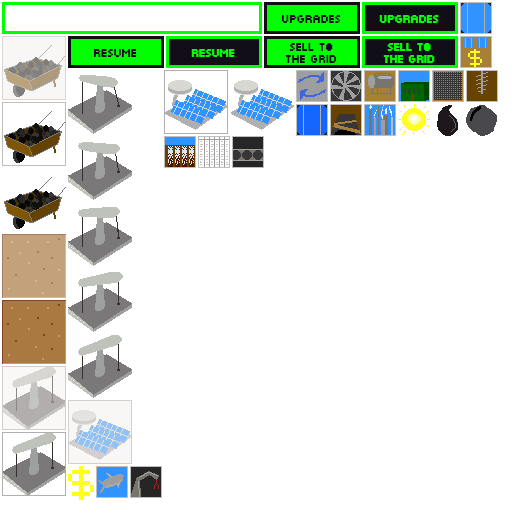
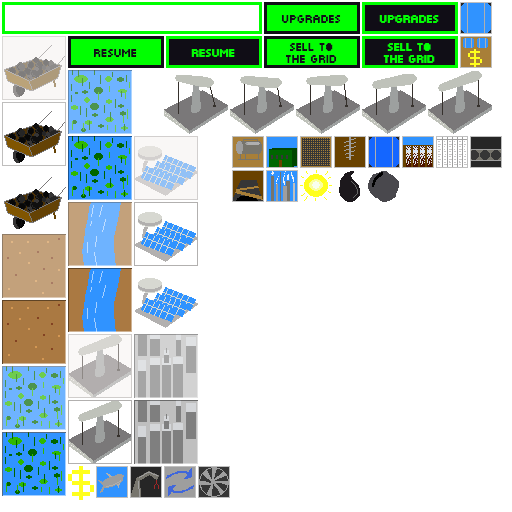
new tile types added sprites for new types. Random gen

Changed region(s): [[0.0, 0.125, 1.0, 1.0]]

diff --git a/src/state/play_state.rs b/src/state/play_state.rs
@@ -7,12 +7,14 @@ use std::ops::DerefMut;
 
 use components::{Button, Color, CurrentPower, EntityLookup, PowerBar, Rect, ResearchedBuffs,
                  ResearchingCount, ResourceCount, ResourceType, Resources, SelectedTile, Sprite,
-                 Text, Tile, Transform, Wallet};
+                 Text, Tile, TileType, Transform, Wallet};
 use components::ui::WalletUI;
 use systems;
 use renderer;
 use entities::{create_text, tech_tree};
 use storage_types::*;
+use rand;
+use rand::Rng;
 
 enum InternalState {
     Game,
@@ -118,12 +120,17 @@ impl<'a> State for PlayState<'a> {
         scene.clear();
 
         let mut tile_nodes: Vec<Node> = Vec::with_capacity(100);
+        let mut rng = rand::thread_rng();
         for row in 0..10 {
             for col in 0..10 {
                 let col = col as f32;
                 let row = row as f32;
                 let size = Tile::get_size();
-                let tile = world
+                let tile_type: TileType = rng.gen();
+                let tile = Tile::new(tile_type);
+                let sprite_frames = Tile::get_sprite_frames(&tile.tile_type);
+                let frame_one = sprite_frames[0].clone();
+                let tile_entity = world
                     .create_entity()
                     .with(Transform::visible(
                         size * col,
@@ -136,16 +143,16 @@ impl<'a> State for PlayState<'a> {
                         1.0,
                     ))
                     .with(Button::new(
-                        "tiles".to_string(),
-                        ["tiles.png".to_string(), "tiles_highlight.png".to_string()],
+                        frame_one.clone(),
+                        sprite_frames,
                     ))
                     .with(Sprite {
-                        frame_name: "tiles.png".to_string(),
+                        frame_name: frame_one,
                     })
-                    .with(Tile {})
+                    .with(tile)
                     .build();
 
-                tile_nodes.push(Node::new(Some(tile), None));
+                tile_nodes.push(Node::new(Some(tile_entity), None));
             }
         }
 

diff --git a/src/components/tile.rs b/src/components/tile.rs
@@ -1,8 +1,33 @@
 use specs::{Component, VecStorage};
 
-pub struct Tile;
+#[derive(Rand)]
+pub enum TileType {
+    Open,
+    EcoSystem,
+    River,
+    City,
+}
+
+pub struct Tile {
+    pub tile_type: TileType,
+}
 
 impl Tile {
+    pub fn new(tile_type: TileType) -> Tile {
+        Tile{
+            tile_type,
+        }
+    }
+
+    pub fn get_sprite_frames(tile_type: &TileType) -> [String; 2] {
+        match *tile_type {
+            TileType::Open => ["tiles.png".to_string(), "tiles_highlight.png".to_string()],
+            TileType::EcoSystem => ["swamp.png".to_string(), "swamp_highlight.png".to_string()],
+            TileType::River => ["river.png".to_string(), "river_highlight.png".to_string()],
+            TileType::City => ["city.png".to_string(), "city_highlight.png".to_string()],
+        }
+    }
+
     pub fn get_size() -> f32 {
         64.0
     }

diff --git a/src/systems/research.rs b/src/systems/research.rs
@@ -47,7 +47,7 @@ impl<'a> System<'a> for Research {
         ) = data;
 
         let mut upgrade_entities_researched = Vec::with_capacity(3);
-        let mut researching_count = researching_count_storage.deref_mut();
+        let researching_count = researching_count_storage.deref_mut();
         let mut researching_entities = HashMap::new();
         for (entity, color, upgrade) in
             (&*entities, &mut color_storage, &mut upgrade_storage).join()

diff --git a/src/main.rs b/src/main.rs
@@ -14,6 +14,9 @@ extern crate serde;
 extern crate serde_derive;
 extern crate serde_json;
 extern crate specs;
+extern crate rand;
+#[macro_use]
+extern crate rand_derive;
 
 extern crate rusttype;
 
